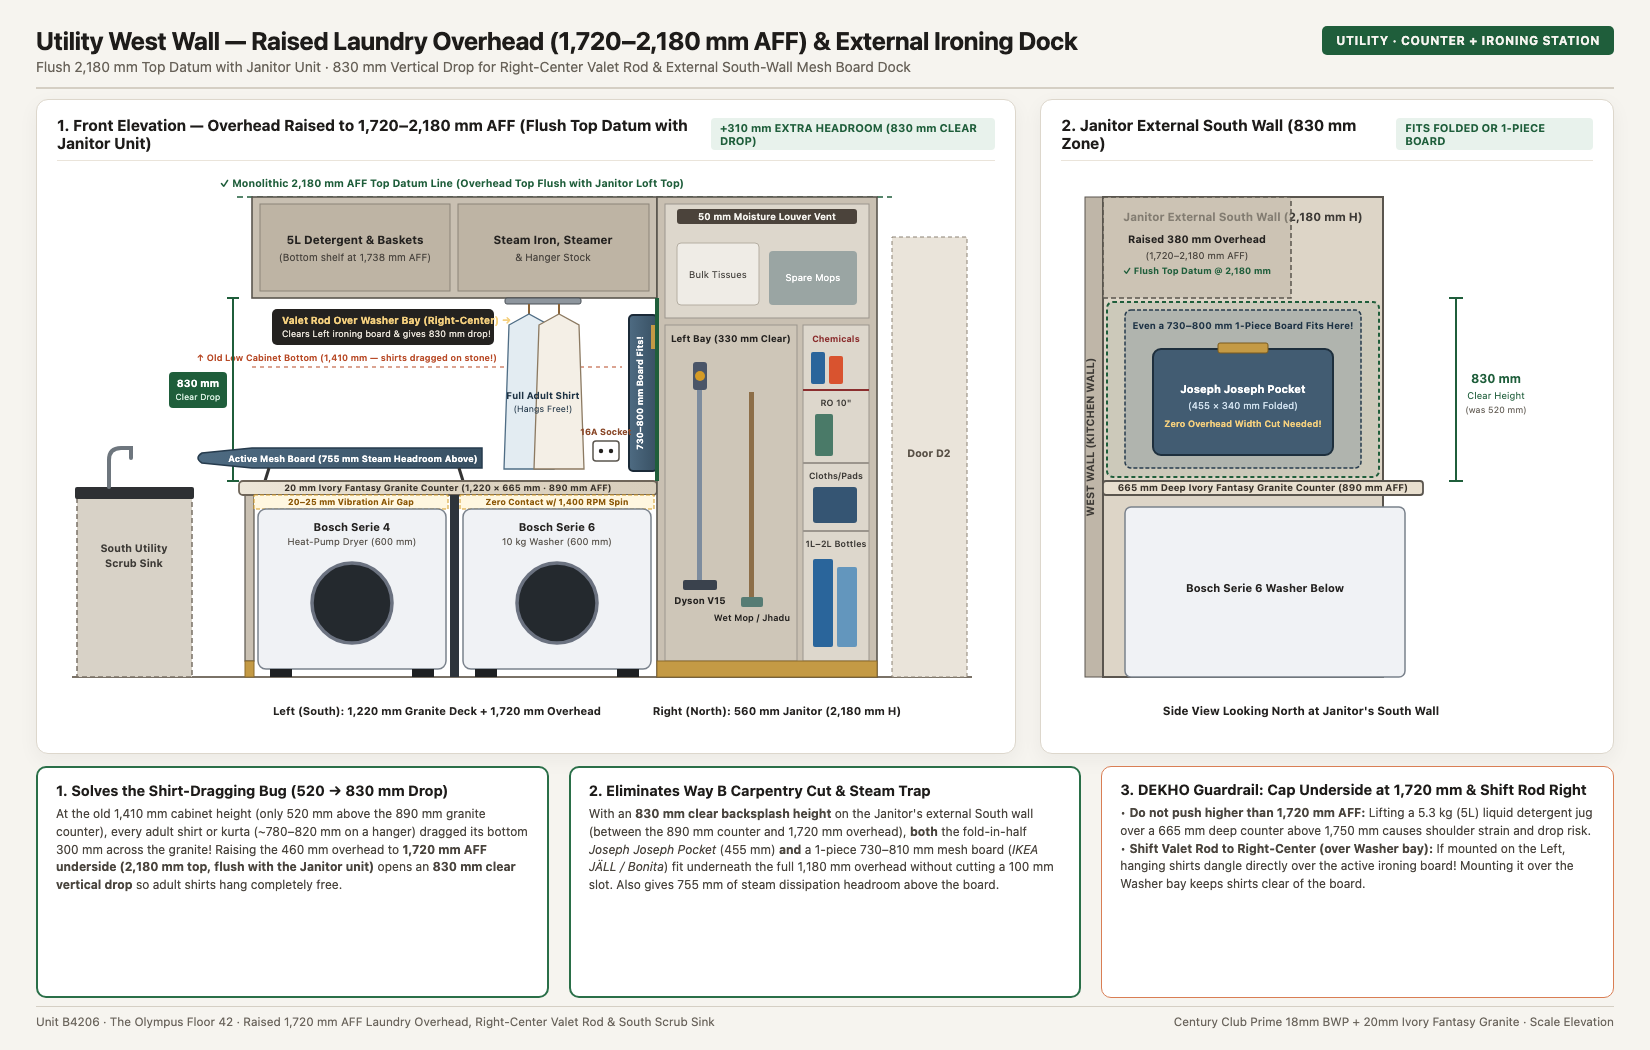
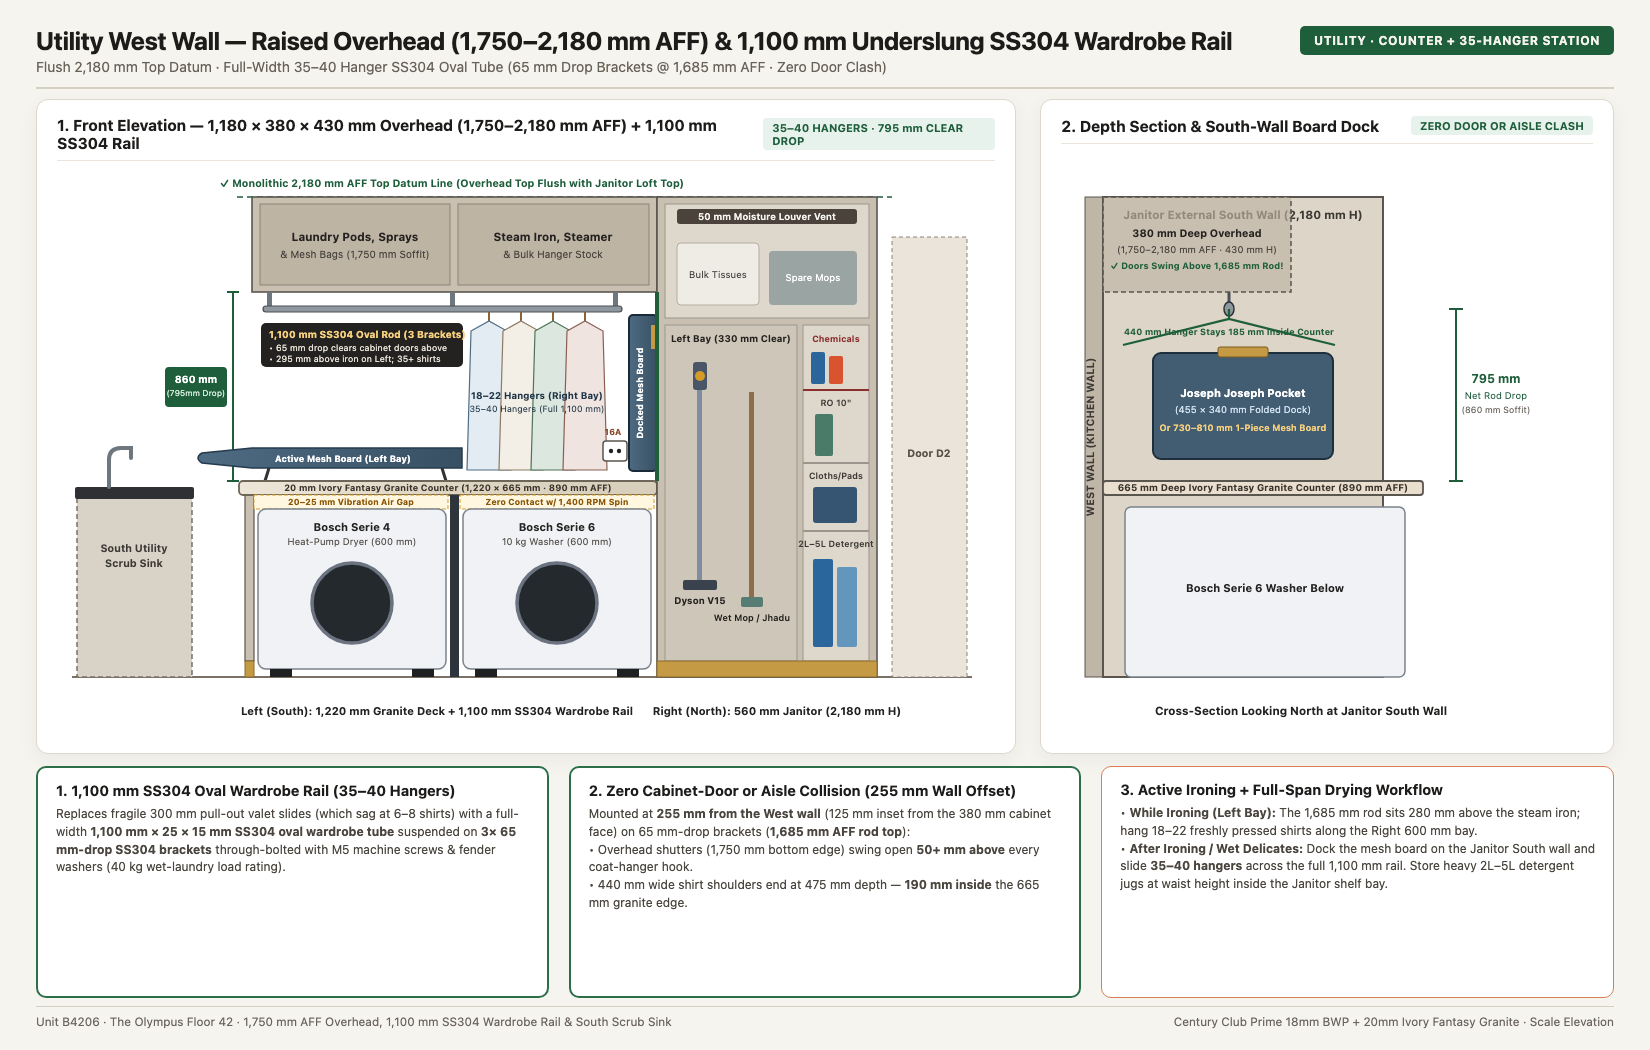
sync: update Project U notes (2026-11-22 01:49:19)

diff --git a/content/rooms/utility.md b/content/rooms/utility.md
@@ -27,8 +27,8 @@ Top reasons to reject common utility designs here: (1) cutting the fixed granite
 | **Dryer (Heat Pump, Side-by-Side) (decided)** | **[Recommended]** [Bosch WQG2520XIN Serie 4 10kg Heat Pump](https://www.amazon.in/dp/B0GQTZ14ML) (EasyClean manual condenser door, 600W R290, AutoDry, left/South bay toward service sink, 8.5 D, 9.0 VFM, 8.7 overall, ₹64,000 Elitehaus quote / ₹67,740 Amazon) / [Siemens WQ45G209IN iQ500 9kg](https://www.siemens-home.bsh-group.in/) (8.4 D, ₹68,990) | [Miele T1 TWD 360 / TWJ 660 EcoDry Heat Pump](https://www.miele.in/) (PerfectDry conductance sensor, FragranceDos, 9.2 D, 5.8 VFM at $2.27\times$, 8.5 overall, ~₹1,45,000) | Serie 4 EasyClean door allows direct vacuuming of condenser coils. Disqualify `Bosch WQB245B0IN Serie 8` (₹92k): sealed 'SelfCleaning' condenser flushes lint into lower sump, baking sludge ('DR' error). Crack utility uPVC sash $\ge 50\text{mm}$ during runs. Dedicated 16A socket. |
 | **Laundry Folding Countertop & Support Frame (`1,220 × 665 mm`)** | **[Recommended]** **Ivory Fantasy Indian Granite Slab (Kitchen Offcut Yield, `1,220 × 665 × 20 mm` at `890 mm` AFF)** + **25×40mm Powder-Coated MS/SS304 Center T-Post & Rear Angle Cleat** (2 coats Akemi Nano Sealer, R8 half-bullnose edge, 3×3mm underside drip groove, 60×150mm rear hose/plug grommet slot, 20–25mm vibration air gap, 9.0 D, 9.4 VFM, 9.0 overall, **~₹3,500** cutting & cleat labour) | [Cosentino Dekton / Caesarstone Quartz 20mm Utility Slab on Welded SS304 Frame](https://www.cosentino.com/) (9.3 D, 3.5 VFM at $5.7\times$ under $k=1.25$, 8.2 overall, ~₹20,000) | Never rest stone directly on 1,400 RPM machine top plates (transmits spin shock, cracking stone and crushing washer top PCB). Center 25×40mm steel T-post in the 20mm gap between Dryer and Washer prevents mid-span cracking. Bed slab on removable neutral silicone dabs (zero cement mortar) for slide-out servicing. |
 | **Utility Service Scrub Sink & High-Arch Tap (South Wall, Separate from Kitchen Sink)** | **[Recommended]** **Retain Builder South-Wall Granite Service Counter & Deep SS304 Scrub Bowl** (or upgrade bowl to [Nirali / Carysil 24×18×10" 16G SS304 Utility Sink](https://carysilshop.com/collections/stainless-steel-sink), ₹7,500) + [Jaquar Florentine DZR Brass Swivel Sink Cock (`FLR-CHR-5359N`)](https://www.jaquar.com/) (360° high-arch spout clears 400mm tall buckets & *kadhais*, ₹2,650) + **110mm SS304 Basket Strainer & Smooth-Bore Rigid PVC P-Trap** (₹1,800; 8.8 D, 9.2 VFM, 8.9 overall, **₹4,450** upgrade on builder sink) | [Carysil / Franke 16G (1.2mm) Handmade AISI 304 Deep Scrub Sink on Matching Ivory Fantasy Granite Slab](https://carysilshop.com/collections/stainless-steel-sink) + [Kohler July Swivel Sink Spout + Viega Rigid Siphon](https://www.kohler.co.in/) (9.2 D, 5.1 VFM at $4.1\times$ under $k=1.25$, 8.3 overall, ~₹18,500) | Confirmed present on the Utility **South wall** (adjacent to `P-SHAFT-61` `50 mm` utility waste stack per GFC plan [[plans-drawings]]), completely separate from the internal Kitchen sink. Replace corrugated flexible drain hose with a rigid PVC P-trap + 110mm food-catch basket so pot-scrubbing grit never clogs the `50 mm` utility drain, and grind a 3–5mm underside drip groove. |
-| **Tabletop Mesh Ironing Board (External Janitor South-Wall Dock)** | [Bonita / HomeStrap Heavy-Duty Perforated Steel Mesh Tabletop Board (`810 × 310 mm`)](https://www.google.com/search?q=Bonita+Tabletop+Ironing+Board+Perforated+Steel+Mesh) (35mm foldable steel legs, cotton/felt pad, wall hook, 8.1 D, 9.0 VFM, 8.2 overall, ₹2,999) / *Budget 1-Piece:* [IKEA JÄLL Tabletop Board (`730 × 320 mm`)](https://www.ikea.com/in/en/p/jaell-ironing-board-table-20242890/) (7.6 D, ₹599; hangs flat inside the `830 mm` clear backsplash zone below the raised `1,720 mm` AFF overhead) | **[Recommended]** [Joseph Joseph Pocket Folding Plus Tabletop Ironing Board (`900 × 330 mm`)](https://www.amazon.in/Joseph-Pocket-Folding-Ironing-Board/dp/B0D2L822K3) (Perforated steam mesh, 35mm non-slip legs, integrated silicone iron bay, folds in half to **`455 × 340 × 155 mm`** with dedicated screw-on wall bracket, 8.8 D, 5.3 VFM at $2.50\times$ under $k=2.5$, 8.3 overall, ₹7,499) | **External South-Wall Dock (`830 mm` Zone):** Raising the overhead cabinet to `1,720 mm` AFF underside opens an `830 × 520 mm` zone on the **external South-facing side wall of the Janitor unit**, fitting either the folded `Joseph Joseph Pocket` (`455 mm`) or a 1-piece `730–810 mm` board with zero mop odor, `1,100 mm` separation from the scrub sink, and zero overhead width cut. Disqualified `Häfele Ironfix` (₹16.5k, clashes with `835 mm` aisle). |
-| **Under-Cabinet Valet Rod & Iron Power Point** | **[Recommended]** [Ebco / Häfele 300mm Retractable SS304 Pull-Out Valet Hanger Rod](https://www.google.com/search?q=Ebco+Hafele+300mm+Retractable+Pull+Out+Valet+Hanger+Rod) (Mounted under Right-Center of `1,180×380mm` overhead at **`1,720 mm` AFF** over the Washer bay, giving **`830 mm` clear hanging drop**, 8.8 D, 9.2 VFM, 8.8 overall, **₹650**) + **16A/6A Switched Steam-Iron Socket at `1,020 mm` AFF** (by North Janitor gable, routed via Janitor carcass with zero wall chasing, **~₹850**) | **Tier 2: None justified ($\text{VFM} < 3.0$)** — Lock Tier 1 | Raising the `460 mm` overhead to `1,720–2,180 mm` AFF (flush with the `2,180 mm` Janitor top) prevents adult shirts (`~780–820 mm` on hanger) from dragging on the `890 mm` granite counter. Mounting the valet rod over the **Right/Washer bay** keeps hung shirts clear of the active ironing board on the Left. |
+| **Tabletop Mesh Ironing Board (External Janitor South-Wall Dock)** | [Bonita / HomeStrap Heavy-Duty Perforated Steel Mesh Tabletop Board (`810 × 310 mm`)](https://www.google.com/search?q=Bonita+Tabletop+Ironing+Board+Perforated+Steel+Mesh) (35mm foldable steel legs, cotton/felt pad, wall hook, 8.1 D, 9.0 VFM, 8.2 overall, ₹2,999) / *Budget 1-Piece:* [IKEA JÄLL Tabletop Board (`730 × 320 mm`)](https://www.ikea.com/in/en/p/jaell-ironing-board-table-20242890/) (7.6 D, ₹599; hangs flat inside the `860 mm` clear zone below the `1,750 mm` AFF overhead) | **[Recommended]** [Joseph Joseph Pocket Folding Plus Tabletop Ironing Board (`900 × 330 mm`)](https://www.amazon.in/Joseph-Pocket-Folding-Ironing-Board/dp/B0D2L822K3) (Perforated steam mesh, 35mm non-slip legs, integrated silicone iron bay, folds in half to **`455 × 340 × 155 mm`** with dedicated screw-on wall bracket, 8.8 D, 5.3 VFM at $2.50\times$ under $k=2.5$, 8.3 overall, ₹7,499) | **External South-Wall Dock (`860 mm` Clear Zone):** Mounting the overhead cabinet at `1,750 mm` AFF underside opens an `860 × 520 mm` zone on the **external South-facing side wall of the Janitor unit**, fitting either the folded `Joseph Joseph Pocket` (`455 mm`) or a 1-piece `730–810 mm` board with zero mop odor and `1,100 mm` separation from the scrub sink. Disqualified `Häfele Ironfix` (₹16.5k, clashes with `835 mm` aisle). |
+| **Underslung `1,100 mm` SS304 Wardrobe Rail (`35–40` Hangers) & Iron Power Point** | **[Recommended]** [Ebco / Häfele 1,100mm × 25×15mm Heavy-Duty SS304 Oval Wardrobe Tube + 3× 65mm-Drop SS304 Brackets](https://www.google.com/search?q=Ebco+Hafele+25x15mm+SS304+Oval+Wardrobe+Rod+Tube+Ceiling+Bracket) (Through-bolted with `M5` machine screws & fender washers under the `1,180×380mm` overhead at `255 mm` from the West wall; rod top sits at **`1,685 mm` AFF** with **`795 mm` net hanging drop** and `40 kg` wet-load capacity, 9.2 D, 9.5 VFM, 9.2 overall, **~₹950**) + **16A/6A Switched Steam-Iron Socket at `1,020 mm` AFF** (by North Janitor gable, **~₹850**) | **Tier 2: None justified ($\text{VFM} < 3.0$)** — Lock Tier 1 | Disqualify `300 mm` pull-out valet slides (cap at 5–7 hangers and sag under wet torque). A `65 mm` bracket drop (`1,685 mm` rod top below the `1,750 mm` cabinet floor) lets overhead doors swing open `50+ mm` above every coat-hanger hook and keeps `440 mm` shirt shoulders `190 mm` inside the `665 mm` granite edge. Hang 18–22 shirts on the Right bay while ironing on the Left, then slide 35–40 hangers across the full `1,100 mm` span. |
 | **Kitchen-Utility Door Wind Restraint (`D2`)** | [Häfele DCL 110 Overhead Hydraulic Closer (EN 3/4, Backcheck, Standard Arm)](https://www.hafeleindia.com/) (8.4 D, 9.0 VFM, 8.5 overall, ₹4,500–₹5,500) / [Godrej / Ozone Heavy-Duty Backcheck Closer (80–120 kg)](https://www.godrejenterprises.com/) (₹2,500–₹4,000) | **[Recommended]** [Dormakaba TS 73 V Overhead Hydraulic Closer (EN 2–4, "Thinking" Backcheck, Standard Arm)](https://www.dormakaba.com/) (Thermostatic oil resists 45°C weep, 9.4 D, 7.3 VFM at $1.7\times$, 8.7 overall, ₹7,500–₹9,500) + floor rubber dome stop (₹650) | Disqualify foot kickdown stays (`<7.0`, skid on wet tile, rack thin aluminum stiles), non-BC closers (`TS 68`, `DC 140`), and **Hold-Open Arms** (Floor 42 gusts snap HOA detents). Mount `TS 73 V` on **dry Kitchen interior side** via aluminum **drop plate + M5/M6 SS304 rivnuts** (never self-tapping screws), and verify **3× SS304 hinges + EPDM gasket**. |
 | **Utility Parapet Glazing Enclosure (Floor 42)** | **[Recommended]** **Sumadhura FM White uPVC 3-Track Sliding Enclosure** (Vendor: **UPVC Works Kukatpally** per reference/olympus-vendor-directory; $\ge 1.5\text{mm}$ GI core, $\ge 6\text{mm}$ toughened glass on 2 tracks + 1 SS304 mesh track, Fischer sleeve anchors $\le 450\text{mm}$ pitch, storm weep flaps, 8.8 D, 9.0 VFM, 8.8 overall, **~₹28,000–₹35,000**) | **Tier 2: None justified (FM Exterior Facade Lock)** — Lock Tier 1 | Sumadhura FM strictly mandates **White uPVC only** to preserve tower elevation uniformity (non-matching aluminum is rejected; reference/olympus-community-qa). Keep slider cracked $\ge 50\text{mm}$ on the SS304 mesh track during heat-pump dryer cycles and for passive BGL gas meter ventilation. |
 
@@ -39,8 +39,8 @@ Top reasons to reject common utility designs here: (1) cutting the fixed granite
 ![Utility Laundry Countertop & External South-Wall Ironing Board Scheme](../assets/decor/utility-laundry-counter-scheme.png)
 
 ### Site Execution & Plumbing Guardrails
-1. **Raised `1,720 mm` AFF Overhead Datum & External South-Wall Ironing Dock (`830 mm` Clear Zone):**
-   * **Flush Top Datum (`2,180 mm` AFF):** Instruct Homz to mount the `1,180 × 380 × 460 mm` Laundry Overhead at **`1,720–2,180 mm` AFF** (top flush with the `2,180 mm` Janitor Tall Unit; do not push higher than `1,720 mm` AFF underside so `5L` detergent jugs on the `1,738 mm` bottom shelf remain within safe flat-footed reach over the `665 mm` counter).
-   * **830 mm Hanging Drop & Universal Board Dock:** The `830 mm` vertical gap between the `890 mm` granite counter and `1,720 mm` overhead cabinet allows full-length adult shirts (`~780–820 mm` on hanger) to hang free from the **Right-Center Valet Rod (above the Washer bay, clear of the Left ironing board)** and lets **either** the folded `Joseph Joseph Pocket` (`455 × 340 mm`) **or** a 1-piece `730–810 mm` tabletop mesh board dock directly on the Janitor unit's external South wall with zero cabinet width modification.
+1. **Raised `1,750 mm` AFF Overhead Datum, `1,100 mm` SS304 Wardrobe Rail & External Board Dock:**
+   * **Flush Top Datum (`2,180 mm` AFF) & Waist-Height Heavy Liquid Storage:** Instruct Homz to build the `1,180 × 380 × 430 mm` Laundry Overhead at **`1,750–2,180 mm` AFF** (top flush with the `2,180 mm` Janitor Tall Unit). Store heavy `2L–5L` liquid detergent jugs at waist height inside the Janitor unit's lower shelf bay (`900–1,200 mm` AFF), keeping the `1,750 mm` overhead for lightweight pods, stain sprays, mesh bags, steamer, and spare hangers.
+   * **Through-Bolted `1,100 mm` SS304 Oval Rail (`35–40` Hangers, Zero Door or Aisle Clash):** Through-bolt three `65 mm`-drop SS304 brackets (`M5 × 30 mm` SS304 machine bolts + fender washers inside the `18 mm` BWP floor) at `255 mm` from the West wall (`125 mm` inset from the `380 mm` cabinet face). The `25 × 15 mm` SS304 oval rail sits at `1,685 mm` AFF (`795 mm` net drop to the `890 mm` granite counter), allowing overhead doors (`1,750 mm` bottom edge) to swing open `50+ mm` clear above every hanger hook and keeping `440 mm` hangers `190 mm` inside the `665 mm` counter edge.
 2. **Slab Depth (`665 mm`) & Aisle Clearance (`835 mm`):** The `Bosch WQG2520XIN` dryer (`613 mm` body + rear hose/plug) requires a `665 mm` deep granite top, leaving an `835 mm` clear standing aisle inside the `1,500 mm` wide Utility. Core a `60 × 150 mm` rear right grommet slot so 16A plugs and the cold-water angle valve remain reachable from above.
 3. **South-Wall Utility Scrub Sink (`P-SHAFT-61`) & Washer Plumbing (`P-SHAFT-74`):** Retain the dedicated **South-wall Utility service sink** (separate from the Kitchen sink) for heavy cookware scrubbing, bucket filling, and hand-washing; upgrade to a `110 mm` SS304 deep basket strainer, rigid PVC P-trap, and DZR brass stopcock + `360°` high-arch swivel tap. Fit a 20-bar burst-rated SS304 braided inlet hose and inline polyphosphate scale cartridge strictly on the cold-water feed of the `Bosch WGA254ZSIN` washer. Test `P-SHAFT-74` metered feed pressure and install a `Zoloto Art. 1040B` forged brass PRV only if static pressure exceeds `4.5 bar` ([[gotchas-and-tips#1-plumbing-hydrostatic-pressure--wet-services]]).

diff --git a/content/wardrobe-internal-storage.md b/content/wardrobe-internal-storage.md
@@ -70,7 +70,7 @@ Balances sacred purity with visiting parents/elder guest storage (`3163 SI`, bum
 Facing the Utility West wall (left-to-right: **South side-by-side Bosch Dryer/Washer (`1,200 mm`) on the Left** $\rightarrow$ **North `560 × 520 mm` Janitor Tall Unit on the Right** beside Kitchen door `D2`). Strikes Homz Docket `p. 15` horizontal shelves inside the `560 mm` tall unit in favor of a **`65:35` vertical split** (`158 LU Taupe` glossy + `18 mm` BWP + SS304 hinges):
 
 * **Left Tall Bay (`330 mm` clear × `1,550 mm` H):** Zero horizontal shelves. Gives the `250 mm` **Dyson V15** cleaner head clean clearance past `110°` hinge arms, with an internal `6A` dock socket + SS304 gripper strip for mop, floor wiper, and *jhadu*.
-* **Right Supply Bay (`180 mm` clear × `1,550 mm` H):** Fixed open shelves (zero pull-out runner width loss) for slim `1L–2L` bottles, Roborock pads, and `10"` RO candles; top tier (`1,300+ mm` AFF, child-safe) holds harsh cleaners. Store bulk `5L` detergent cans in the `1,180 mm` laundry overhead or under-sink.
-* **Moisture, Raised Overhead Datum & Fire-Egress Guardrails:** Include a `50 mm` top/back louvered vent for damp mops and seal the `80 mm` Gold PVC skirting to tile with neutral silicone. Mount the `1,180 × 380 × 460 mm` laundry overhead on the Left (South) at **`1,720–2,180 mm` AFF** (top flush with the `2,180 mm` Janitor loft datum), opening an **`830 mm` clear drop** above the `890 mm` granite laundry counter for the Right-Center under-cabinet valet rod and external South-wall mesh ironing board dock (see [[rooms/utility|Utility & Laundry Balcony]]). Mount the **8" SS316 wire cutter** by the bedroom corridor egress window (not inside the Utility cabinet).
+* **Right Supply Bay (`180 mm` clear × `1,550 mm` H):** Fixed open shelves (zero pull-out runner width loss) for `1L–5L` liquid detergent jugs at waist height, Roborock pads, and `10"` RO candles; top tier (`1,300+ mm` AFF, child-safe) holds harsh cleaners.
+* **Moisture, Raised Overhead Datum & Fire-Egress Guardrails:** Include a `50 mm` top/back louvered vent for damp mops and seal the `80 mm` Gold PVC skirting to tile with neutral silicone. Mount the `1,180 × 380 × 430 mm` laundry overhead on the Left (South) at **`1,750–2,180 mm` AFF** (top flush with the `2,180 mm` Janitor loft datum), suspending a full-width **`1,100 mm × 25 × 15 mm` SS304 oval wardrobe rail** on `3× 65 mm`-drop through-bolted brackets (`1,685 mm` AFF rod top, `795 mm` net hanging drop for `35–40` hangers, zero overhead door clash) alongside the external South-wall mesh ironing board dock (see [[rooms/utility|Utility & Laundry Balcony]]). Mount the **8" SS316 wire cutter** by the bedroom corridor egress window (not inside the Utility cabinet).
 
 ![Utility Janitor Tall Unit & Side-by-Side Laundry Scheme](assets/decor/utility-janitor-internal.png)
